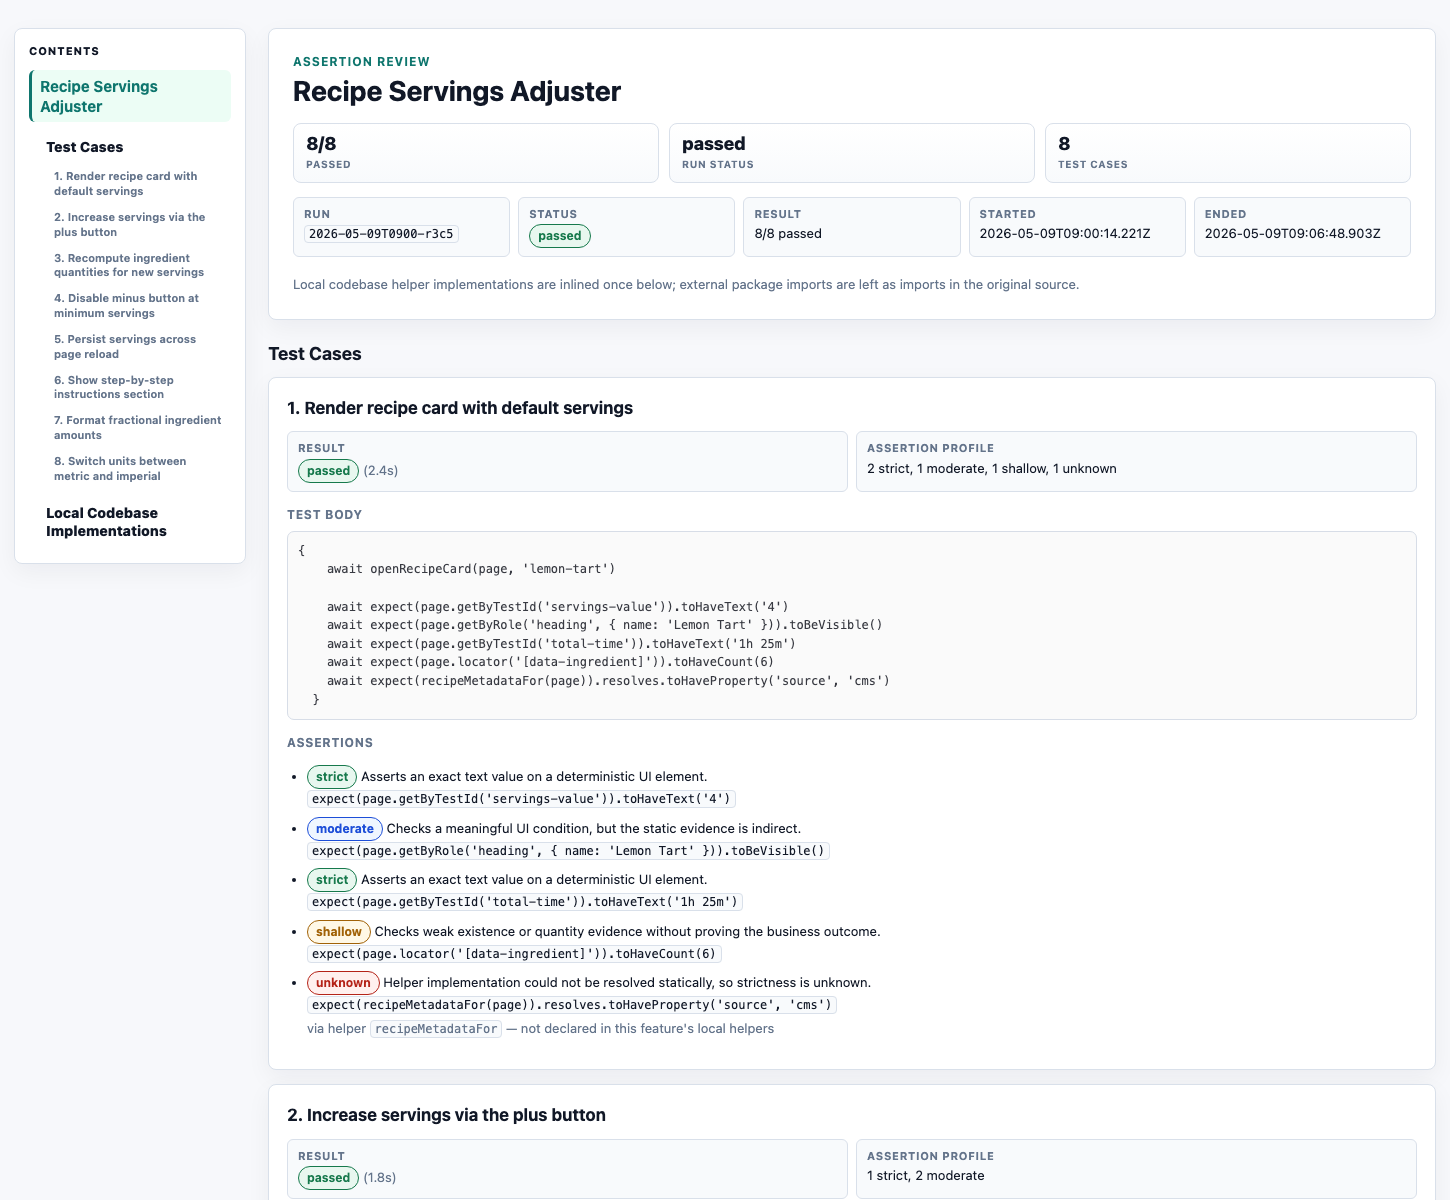
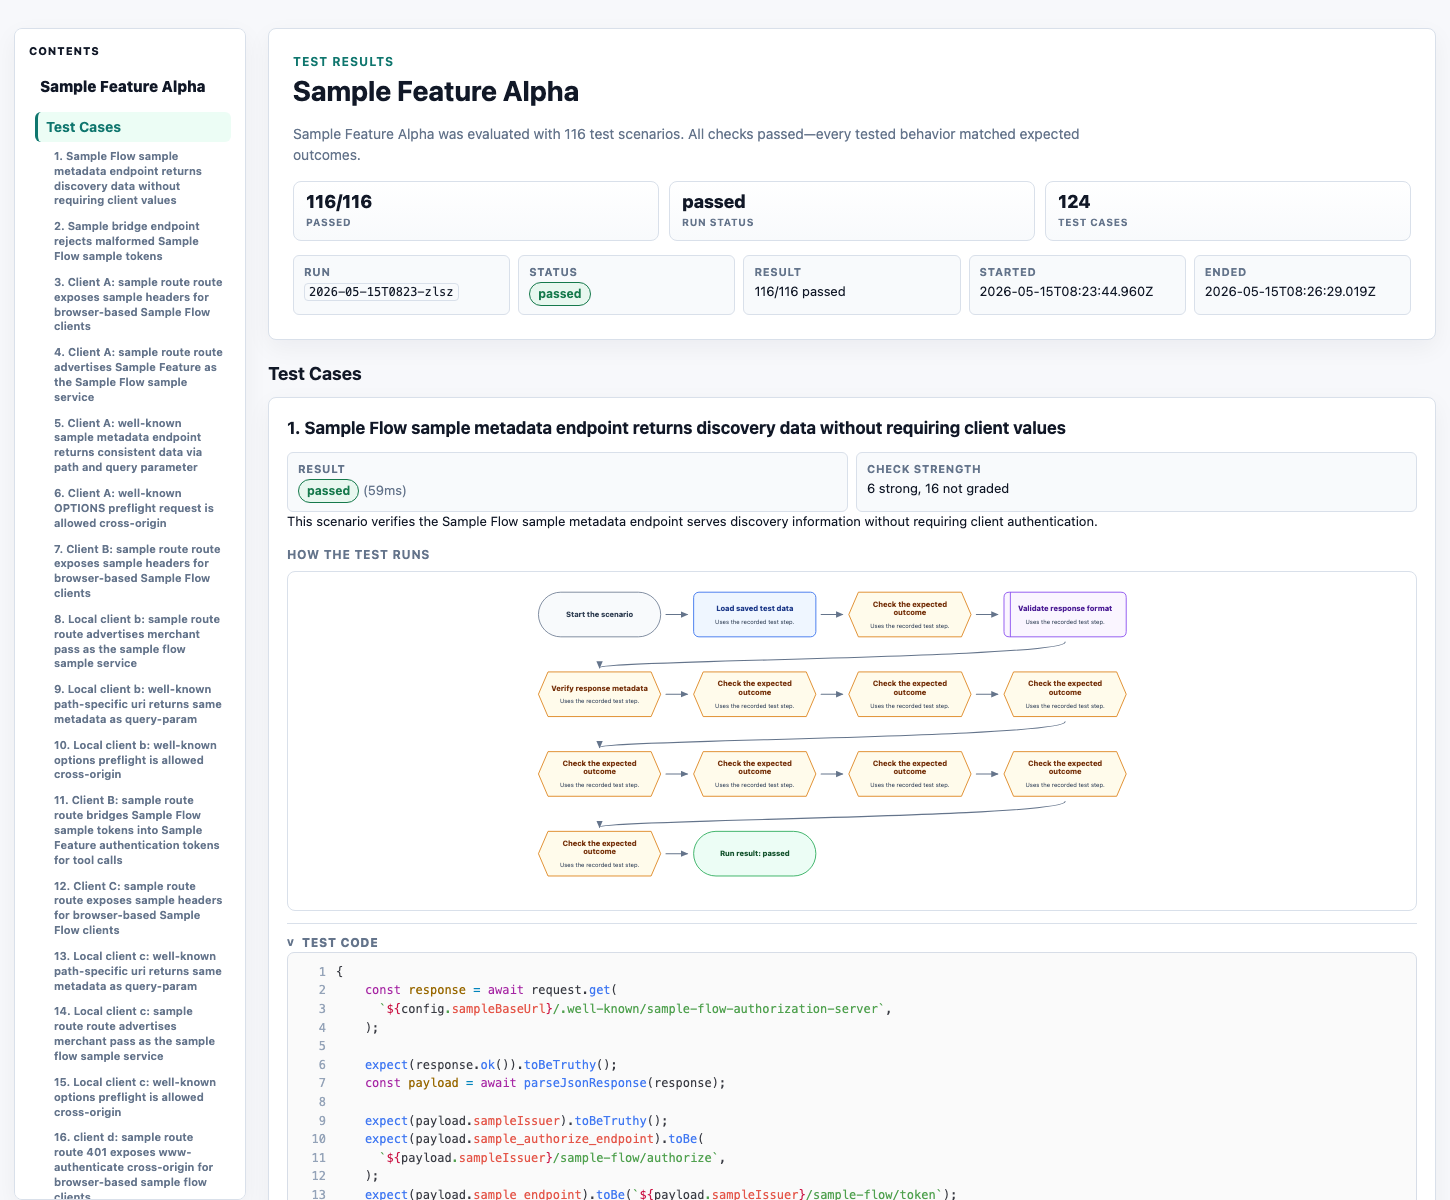
fix: update UI walkthrough image and remove unnecessary link

diff --git a/README.md b/README.md
@@ -9,7 +9,7 @@ I wanted an inner loop where I describe a feature, the tests run, an agent reads
 
 It only works because three other things keep getting better. Playwright keeps catching things I'd miss. Claude and Codex keep getting better at reading evidence and editing code. node-pty and the surrounding ecosystem make the orchestration boring. I didn't build the hard parts — I'm assembling them.
 
-[![Canary Lab UI walkthrough](docs/assets/canary-lab-ui-walkthrough.png)](docs/assets/canary-lab-ui-walkthrough.gif)
+![Canary Lab UI walkthrough](docs/assets/canary-lab-ui-walkthrough.png)
 
 See [CHANGELOG.md](CHANGELOG.md) for what's new in each release.
 
